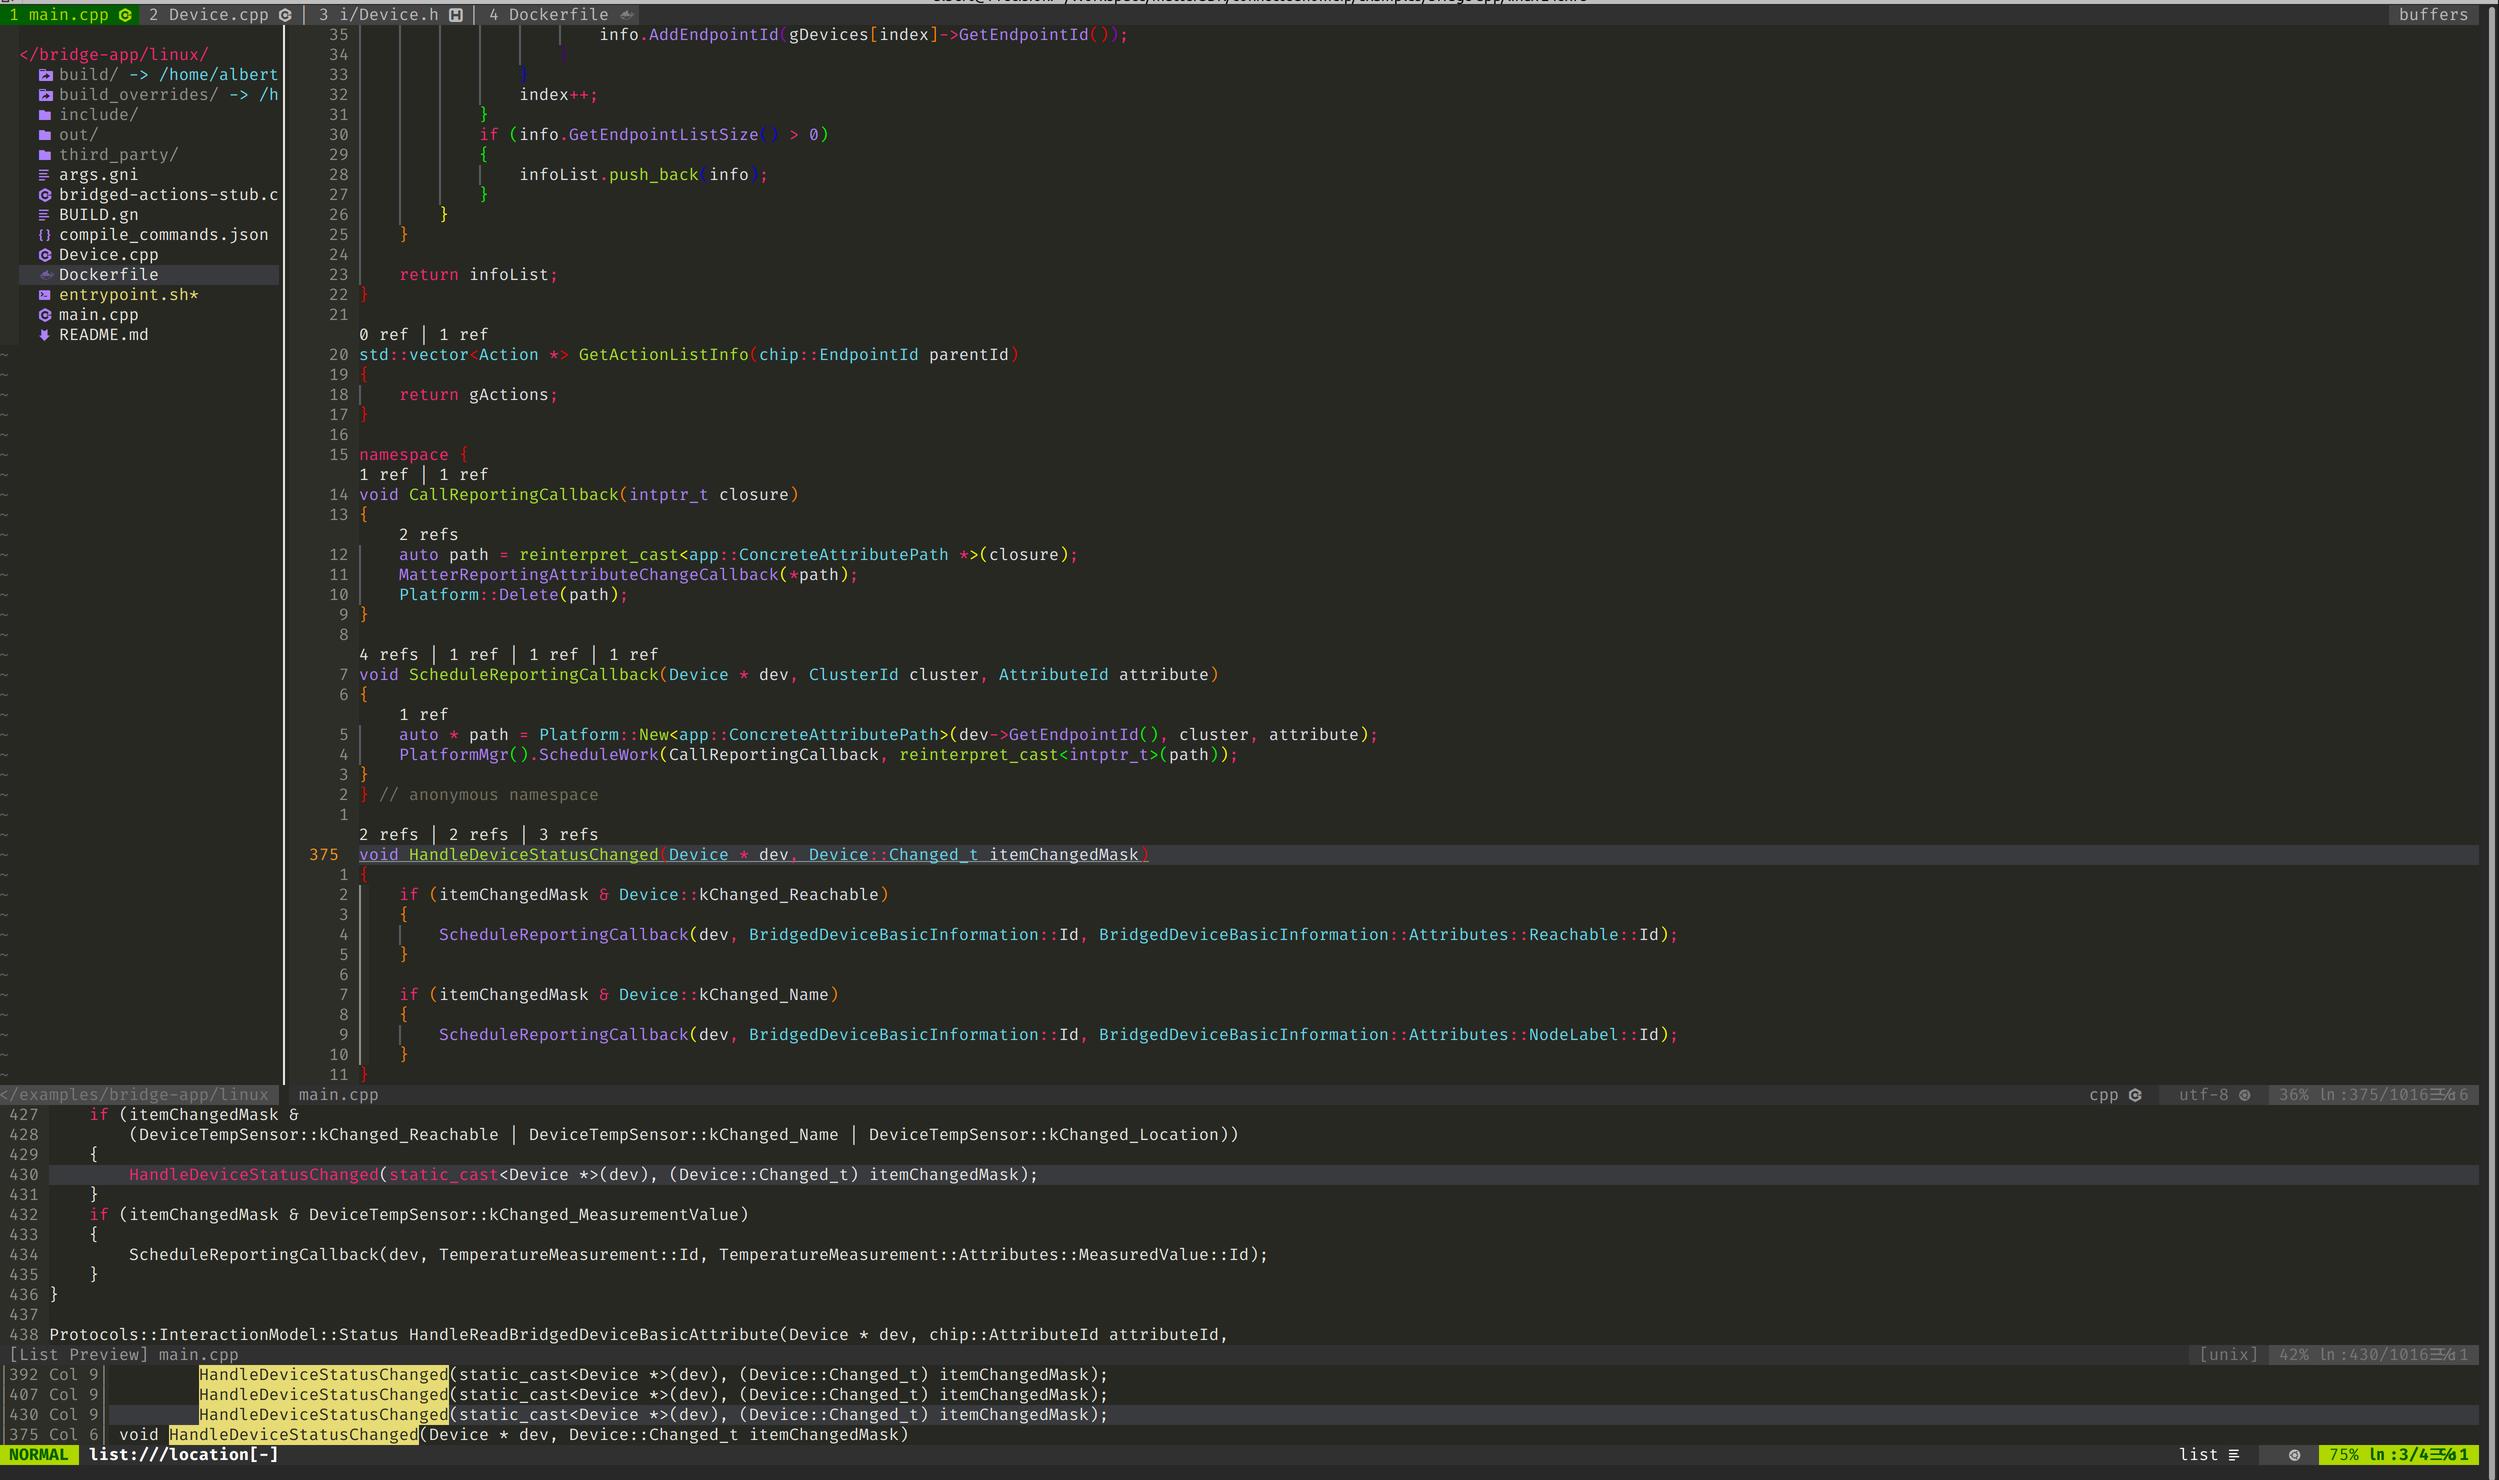
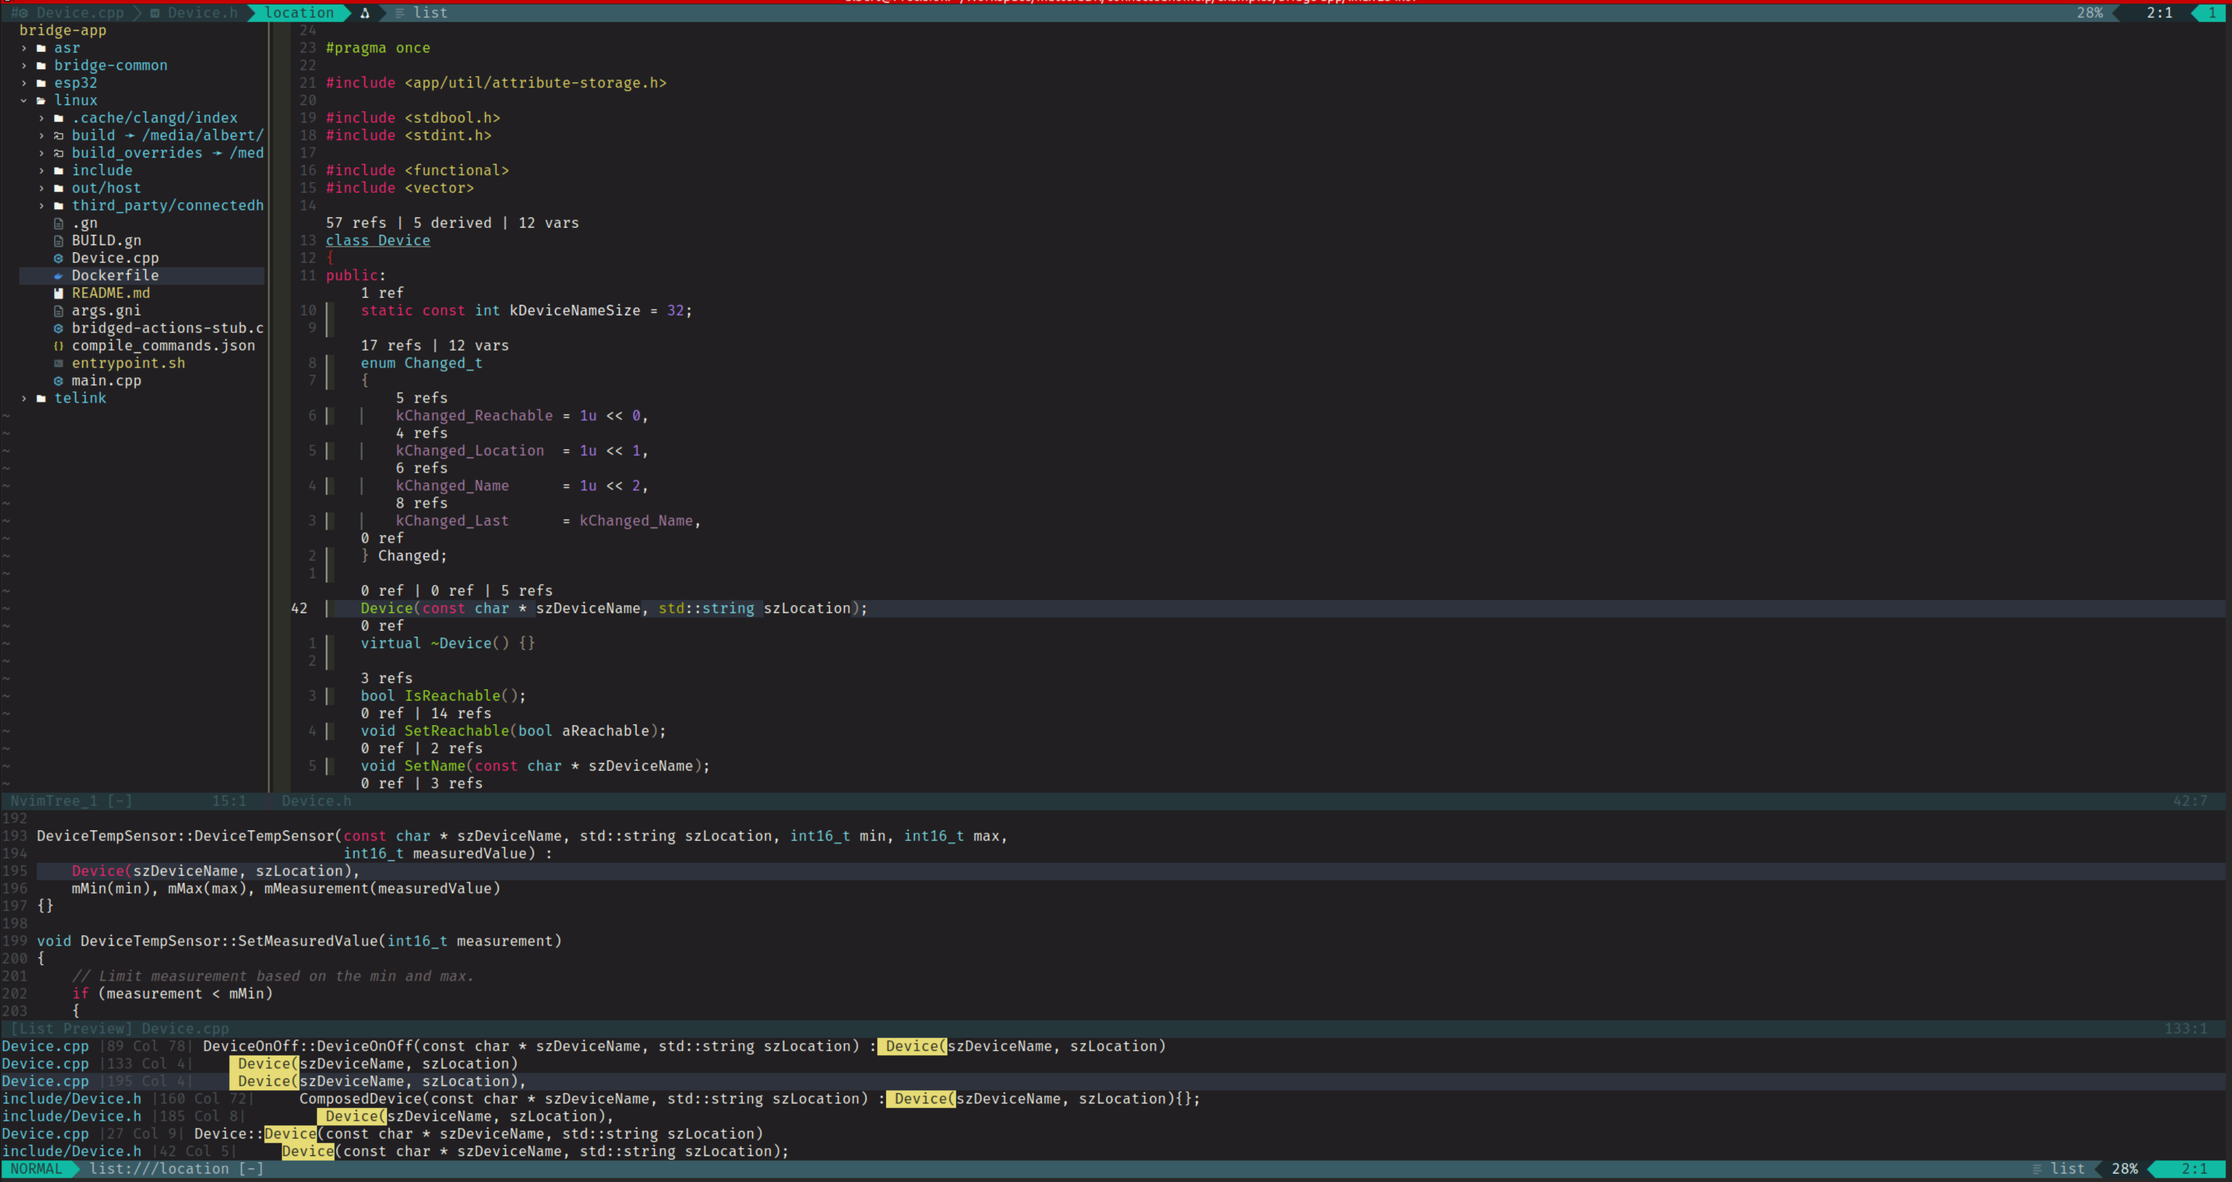
[update]     * remove Telescope plugins     * update images     * update readme, add lua install

diff --git a/README.md b/README.md
@@ -11,13 +11,13 @@
 ├── images
 │   ├── coc.png
 │   ├── lazy.png
-│   └── leaderf.png
+│   ├── leaderf_file.png
+│   └── leaderf_func.png
 ├── init.lua
 ├── lazy-lock.json
 ├── lua
 │   ├── colorscheme.lua
 │   ├── config
-│   │   ├── airline.lua
 │   │   ├── doxygen_toolkit.lua
 │   │   ├── leaderf.lua
 │   │   ├── nerdcommenter.lua
@@ -25,6 +25,7 @@
 │   │   ├── nvim-autopairs.lua
 │   │   ├── nvim-coc.lua
 │   │   ├── nvim-indent-blankline.lua
+│   │   ├── nvim-lualine.lua
 │   │   ├── nvim-markdown.lua
 │   │   ├── nvim-tree.lua
 │   │   ├── nvim-treesitter.lua
@@ -38,11 +39,13 @@
 
 ## Add Display Pictures
 
-![show leaderf](./images/leaderf.png)
+![show leaderf find files](./images/leaderf_file.png)
+
+![show leaderf find function](./images/leaderf_func.png)
 
 ![show lazy](./images/lazy.png)
 
-![show coc](./images/coc.png)
+![show coc lsp](./images/coc.png)
 
 ## Install neovim
 
@@ -65,9 +68,15 @@ OR
 https://github.com/neovim/neovim/releases
 ```
 
+## Install lua and luarocks
+
+```bash
+sudo apt-get install -y lua5.1 luarocks
+```
+
 ## Install nodejs
 
-- nodejs version greater than 16.0
+- nodejs version greater than 18.0
 
 ```bash
 curl -sL https://deb.nodesource.com/setup_20.x | sudo -E bash -
